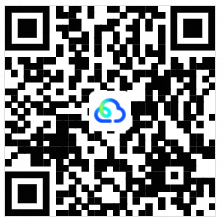
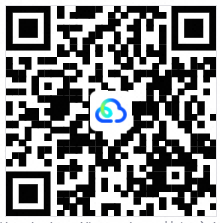
发布 v1.0.0：源码 + README（网盘/公众号二维码）+ 发行说明

diff --git a/README.md b/README.md
@@ -22,7 +22,7 @@
 > **不写代码也能用**：Windows 安装包 `CG5Picker_Setup_v1.0.0.exe`（44.9 MB，装完即用，**不需要 Python**）
 >
 > - [GitHub Releases](https://github.com/pengzhenran/CG5Picker/releases/latest)（海外）
-> - **夸克网盘**（国内更快）：<https://pan.quark.cn/s/615510f3f836>
+> - **夸克网盘**（国内更快）：<https://pan.quark.cn/s/9d91518520e6>
 >
 > 课题组公众号与网盘二维码见文末「**关注与获取**」。
 
@@ -782,7 +782,7 @@ PySide6-Essentials / matplotlib / numpy / openpyxl / pyinstaller，**没有 pand
 | <img src="docs/qr-tvgg.jpg" width="200" alt="课题组公众号二维码"> | <img src="docs/qr-quark.png" width="200" alt="夸克网盘二维码"> |
 | 扫码关注，获取工具与更新 | 扫码打开网盘分享（`CG5Picker_Setup_v1.0.0.exe`） |
 
-夸克网盘链接：<https://pan.quark.cn/s/615510f3f836>　·　安装包也可以直接从
+夸克网盘链接：<https://pan.quark.cn/s/9d91518520e6>　·　安装包也可以直接从
 [Releases](https://github.com/pengzhenran/CG5Picker/releases/latest) 下载。
 
 ## 致谢

diff --git a/RELEASE_NOTES.md b/RELEASE_NOTES.md
@@ -88,5 +88,5 @@ Defender 的病毒防护。
 
 Copyright (c) 2026 彭桢燃（Zhenran Peng），中国地质大学（武汉）　<zhenran.peng@cug.edu.cn>
 
-夸克网盘（国内下载更快）：<https://pan.quark.cn/s/615510f3f836>　·　
+夸克网盘（国内下载更快）：<https://pan.quark.cn/s/9d91518520e6>　·　
 课题组公众号「地球重力与人类生活（TVGG）」二维码见仓库 README 文末。
